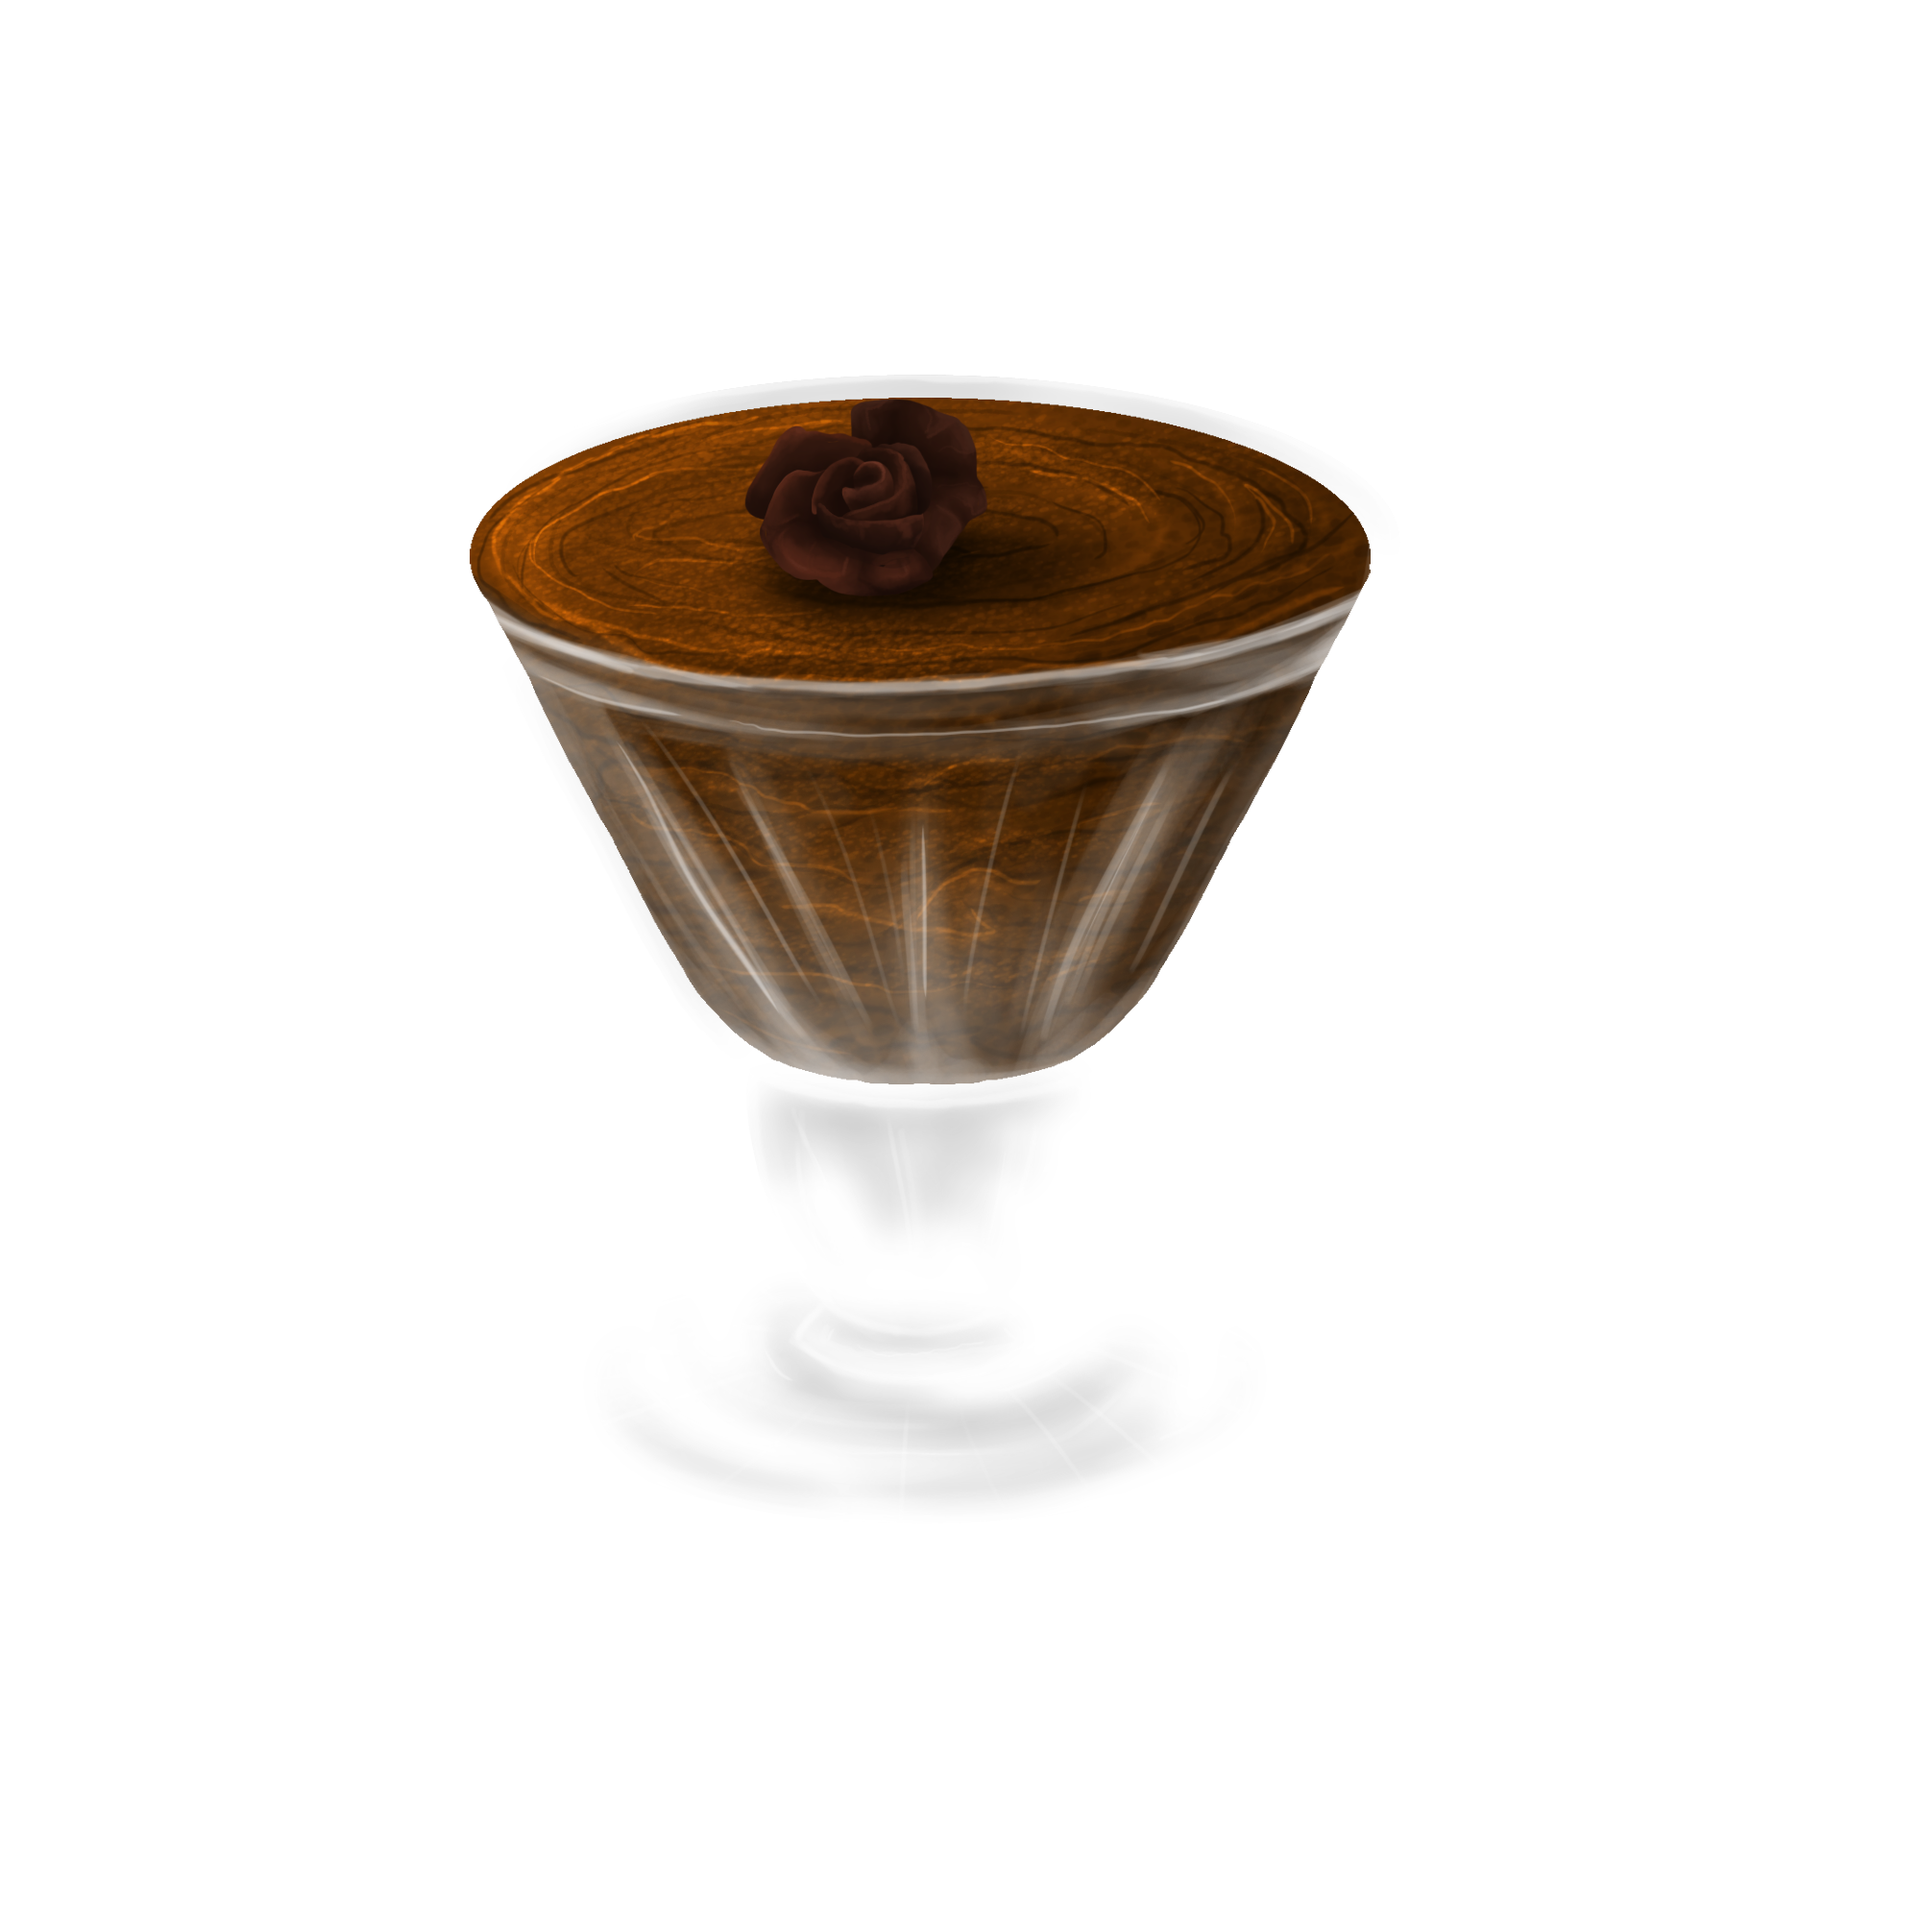
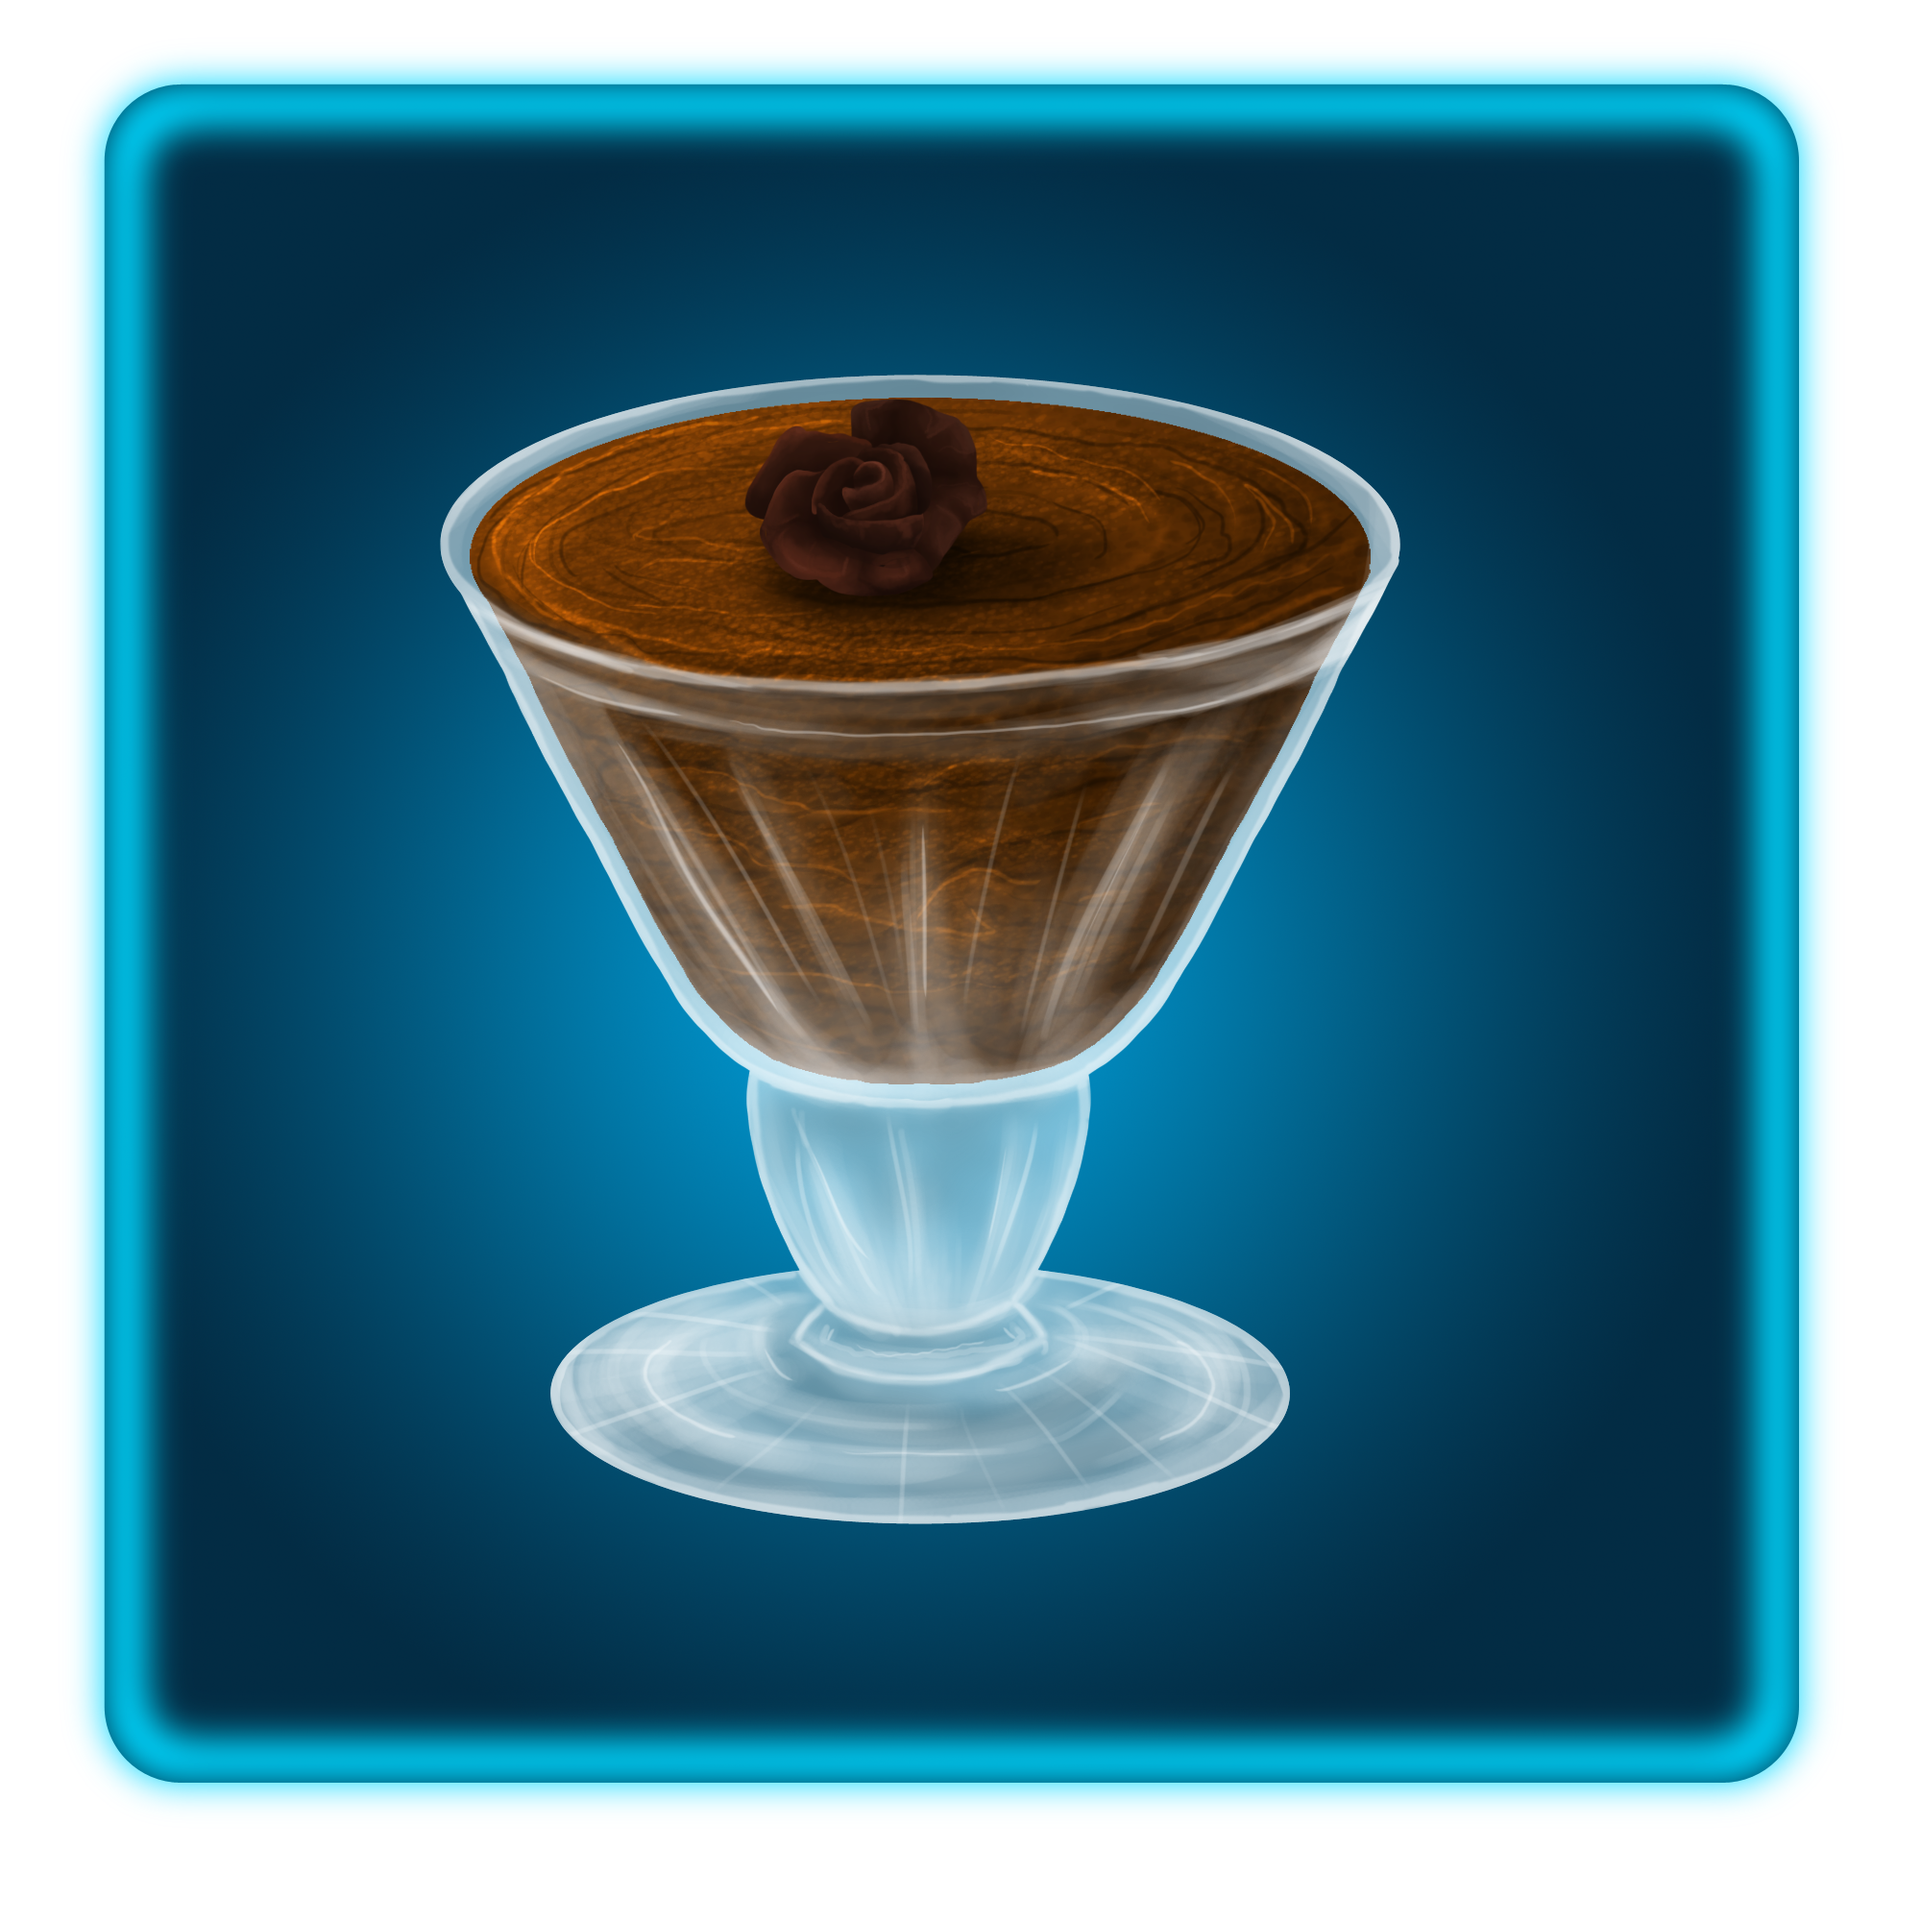
added graphic for pilaf

diff --git a/js/Kitchen.js b/js/Kitchen.js
@@ -130,7 +130,7 @@ Kitchen.prototype.showResults = function(that) {
         that.stars = new MenuBackground(that.stage.getContext(), 300, 350, 350, 250, "images/Menu/0stars.png",1001);
         that.stage.addToStage(that.stars);
     }
-    that.dish = new MenuBackground(that.stage.getContext(), 300, 70, 400, 400, that.actRecipe.image,1002);
+    that.dish = new MenuBackground(that.stage.getContext(), 307, 85, 350, 350, that.actRecipe.image,1002);
     that.stage.addToStage(that.dish);
     alert(that.points);
 }
